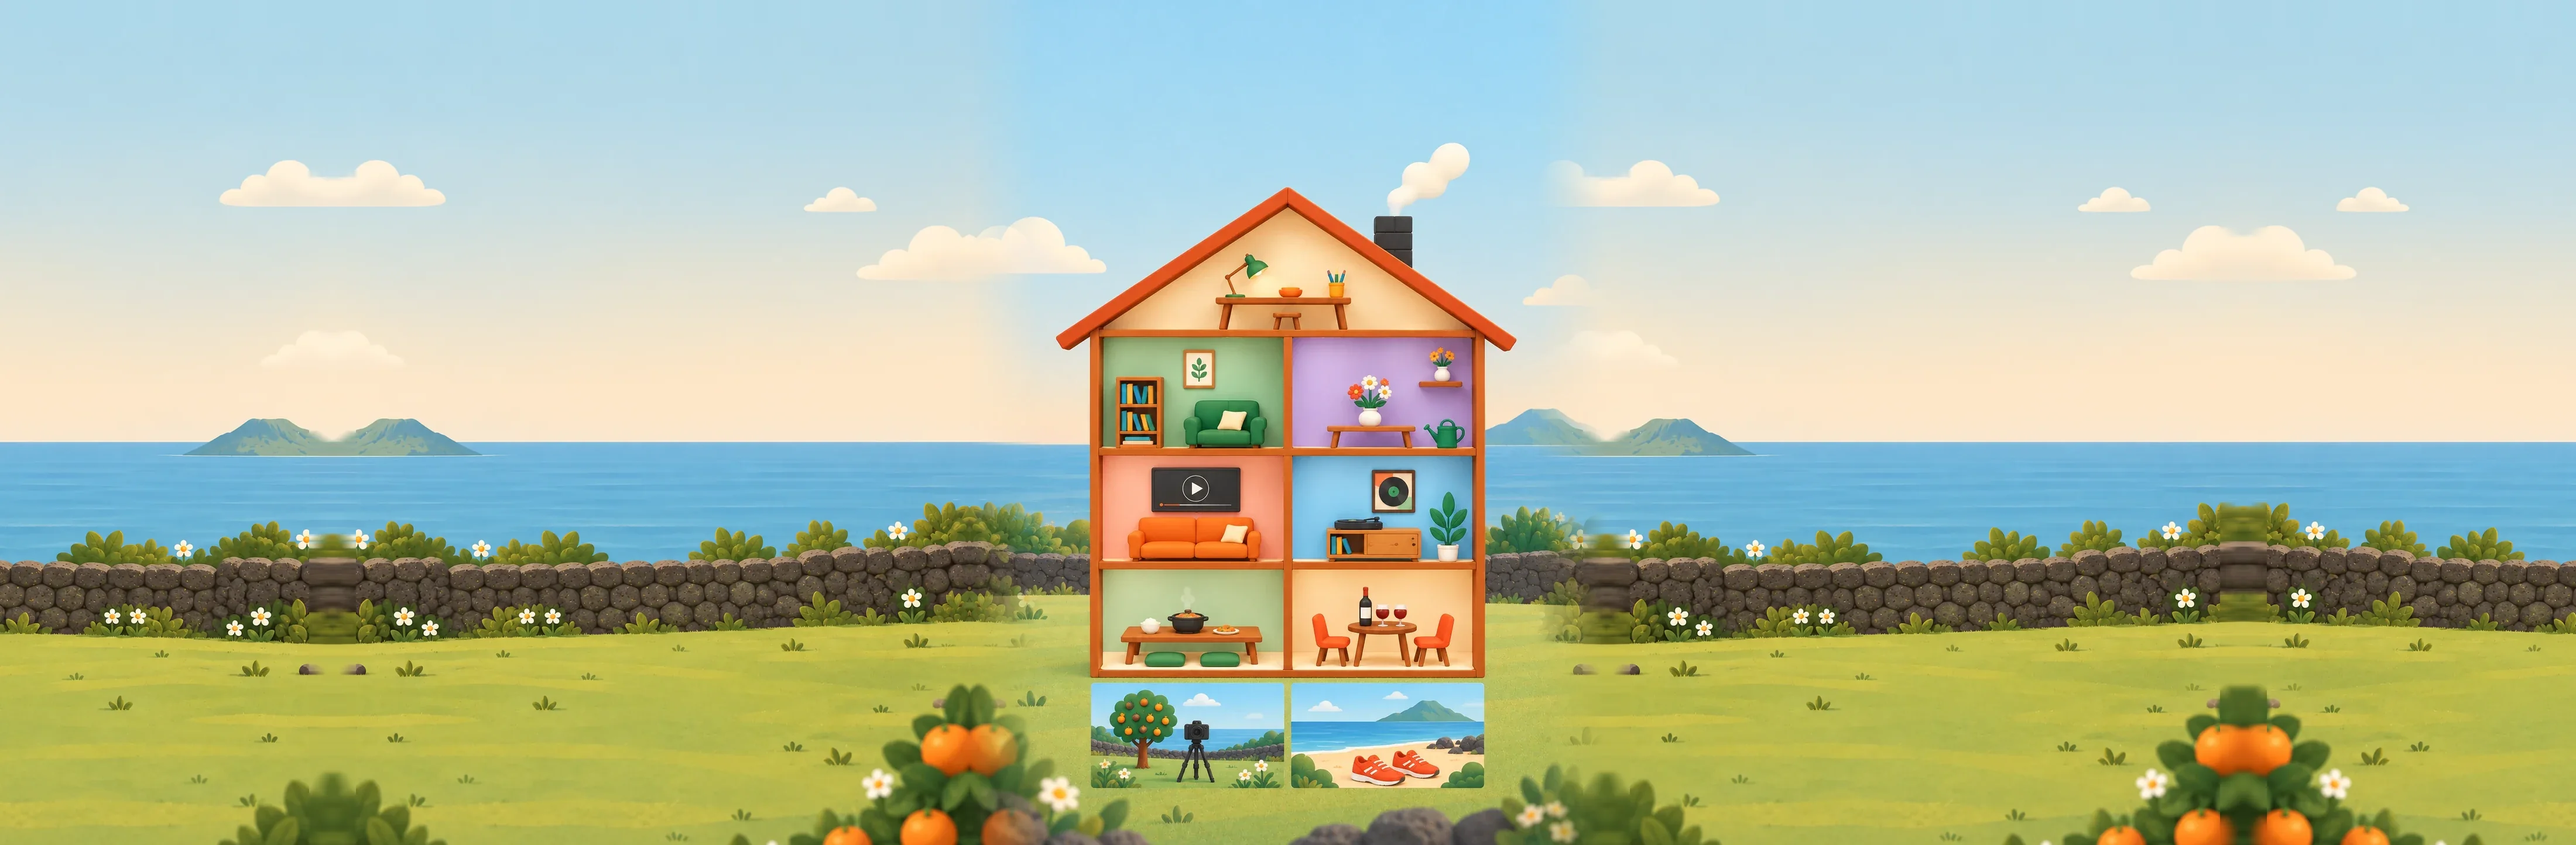
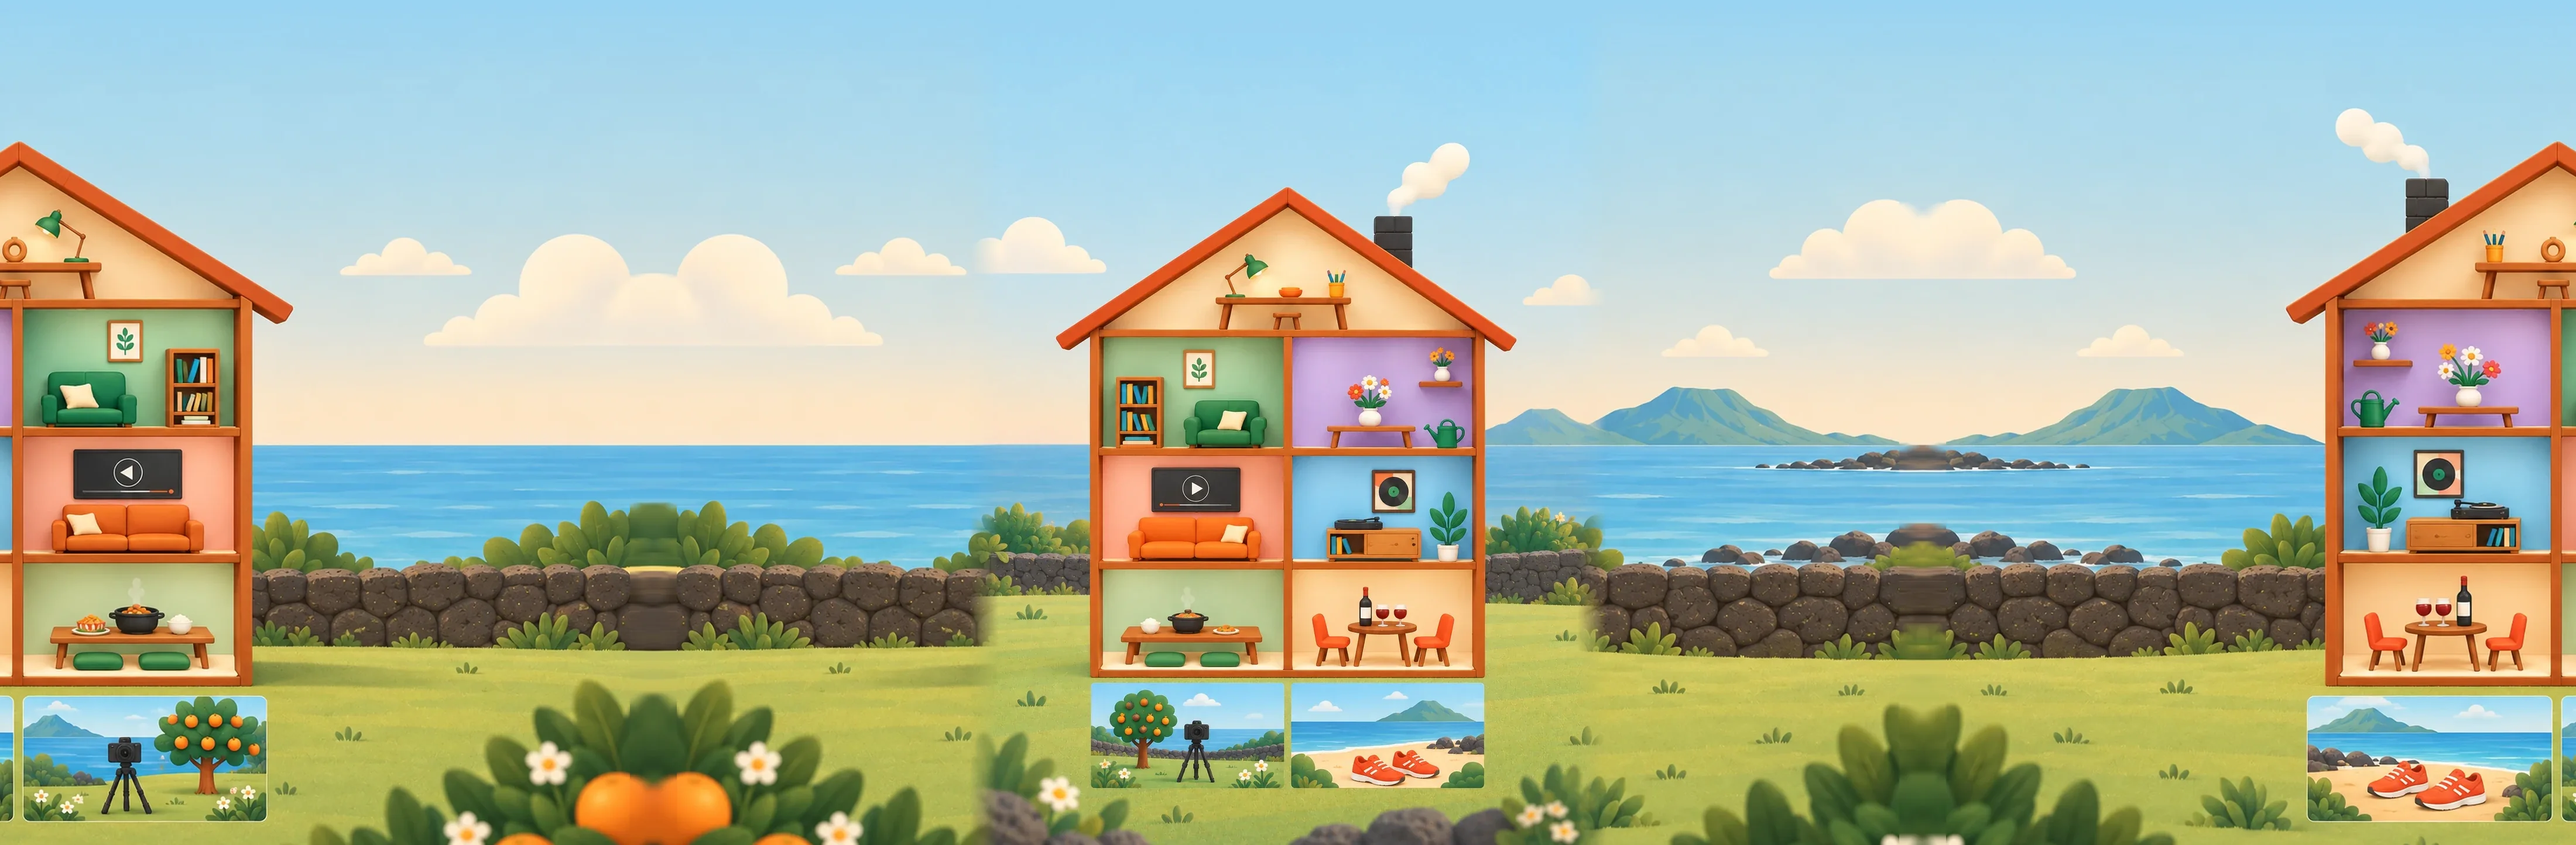
메인 집 칸 — 넓은 화면도 세로 집 그림 그대로, 양옆은 가로 그림 풍경 · 글을 집 가까이 · 하늘 그라데이션 부드럽게 · 잔디 띠 없이 판 이음새 · 돌아가는 사진 색감 섞어 배치

diff --git a/src/pages/HousePage.tsx b/src/pages/HousePage.tsx
@@ -4,8 +4,7 @@ import type { ProgramId } from '../data/types';
 import { href } from '../lib/router';
 import { ExpIcon } from '../components/ExpIcon';
 import houseUrl from '../assets/house-3d.webp';
-import houseWideUrl from '../assets/house-3d-wide.webp';
-import { useMediaQuery } from '../lib/motion';
+import houseBgUrl from '../assets/house-wide-bg.webp';
 
 /**
  * PAGE 02 — 집 내부 탐색 (EXPLORE)
@@ -22,37 +21,19 @@ const VIEW_KEY = 'jejulog:house-view';
  * 다락 반지공방 · 3F 책 · 꽃꽂이 · 2F 영화 · LP · 1F 집밥 · 와인 · 마당 스냅사진 · 러닝 — 휴대폰 · 넓은 화면 모두 같은 그림
  */
 type Spot = { id: ProgramId; room: [number, number, number, number]; tag: [number, number, number]; center?: boolean };
-const HOUSES: Record<'narrow' | 'wide', { url: string; w: number; h: number; spots: Spot[] }> = {
-  // 휴대폰 — 세로 그림 (1088 × 1445)
-  narrow: {
-    url: houseUrl, w: 1088, h: 1445,
-    spots: [
-      { id: 'craft', room: [227, 330, 860, 564], tag: [543, 392, 122], center: true },
-      { id: 'book', room: [227, 576, 536, 767], tag: [240, 589, 66] },
-      { id: 'flower', room: [551, 576, 860, 767], tag: [564, 589, 95] },
-      { id: 'cinema', room: [227, 778, 536, 961], tag: [240, 791, 84] },
-      { id: 'lp', room: [551, 778, 860, 961], tag: [564, 791, 70] },
-      { id: 'homemeal', room: [227, 973, 536, 1146], tag: [240, 986, 85] },
-      { id: 'wine', room: [551, 973, 860, 1146], tag: [564, 986, 83] },
-      { id: 'camping', room: [208, 1168, 537, 1348], tag: [221, 1181, 120] },
-      { id: 'running', room: [551, 1168, 878, 1348], tag: [564, 1181, 89] },
-    ],
-  },
-  // 넓은 화면 — 가로 그림 한 장 (1536 × 1024), 화면 폭에 꽉 차게
-  wide: {
-    url: houseWideUrl, w: 1536, h: 1024,
-    spots: [
-      { id: 'craft', room: [507, 170, 1028, 345], tag: [768, 218, 122], center: true },
-      { id: 'book', room: [507, 357, 762, 504], tag: [519, 369, 66] },
-      { id: 'flower', room: [775, 357, 1028, 504], tag: [787, 369, 95] },
-      { id: 'cinema', room: [507, 515, 762, 657], tag: [519, 527, 84] },
-      { id: 'lp', room: [775, 515, 1028, 657], tag: [787, 527, 70] },
-      { id: 'homemeal', room: [507, 666, 762, 806], tag: [519, 678, 85] },
-      { id: 'wine', room: [775, 666, 1028, 806], tag: [787, 678, 83] },
-      { id: 'camping', room: [468, 830, 762, 980], tag: [480, 842, 120] },
-      { id: 'running', room: [775, 830, 1070, 980], tag: [787, 842, 89] },
-    ],
-  },
+const HOUSE: { url: string; w: number; h: number; spots: Spot[] } = {
+  url: houseUrl, w: 1088, h: 1445,
+  spots: [
+    { id: 'craft', room: [227, 330, 860, 564], tag: [543, 392, 122], center: true },
+    { id: 'book', room: [227, 576, 536, 767], tag: [240, 589, 66] },
+    { id: 'flower', room: [551, 576, 860, 767], tag: [564, 589, 95] },
+    { id: 'cinema', room: [227, 778, 536, 961], tag: [240, 791, 84] },
+    { id: 'lp', room: [551, 778, 860, 961], tag: [564, 791, 70] },
+    { id: 'homemeal', room: [227, 973, 536, 1146], tag: [240, 986, 85] },
+    { id: 'wine', room: [551, 973, 860, 1146], tag: [564, 986, 83] },
+    { id: 'camping', room: [208, 1168, 537, 1348], tag: [221, 1181, 120] },
+    { id: 'running', room: [551, 1168, 878, 1348], tag: [564, 1181, 89] },
+  ],
 };
 const pct = (v: number, of: number) => `${(v / of) * 100}%`;
 
@@ -75,8 +56,7 @@ export function HousePage({ embedded = false }: { embedded?: boolean }) {
   const listed = houseOrder.map((id) => experiences.find((e) => e.id === id)!).filter(Boolean);
   // 상세페이지에 다녀와도 보던 방식이 유지되도록 이 탭에서만 기억합니다.
   const [view, setView] = useState<View>(readView);
-  const wide = useMediaQuery('(min-width: 900px)');
-  const house = HOUSES[wide ? 'wide' : 'narrow'];
+  const house = HOUSE;
   const { w: IMG_W, h: IMG_H } = house;
   const choose = (v: View) => {
     setView(v);
@@ -127,9 +107,9 @@ export function HousePage({ embedded = false }: { embedded?: boolean }) {
         </nav>
       ) : (
       <nav
-        className={`house3d${wide ? ' house3d--wide' : ''}`}
+        className="house3d"
         aria-label={ui.house.houseAria}
-        style={{ '--iw': IMG_W } as CSSProperties}
+        style={{ '--iw': IMG_W, '--house-bg': `url(${houseBgUrl})` } as CSSProperties}
       >
         <div className="house3d__frame">
           <img className="house3d__img" src={house.url} width={IMG_W} height={IMG_H} alt={ui.house.houseAria} loading="lazy" decoding="async" />

diff --git a/src/styles/house.css b/src/styles/house.css
@@ -65,7 +65,10 @@
 /* 문제 정의 화면 아래 빈 자리로 살짝 끌어올려 두 섹션 사이 간격을 줄임 */
 .explore.explore--home { position: relative; z-index: 5; padding-top: clamp(40px, 7vh, 80px); } /* SCROLL 표시 아래 공백 */
 /* 메인 집 칸 — 제목 뒤까지 하늘: 위는 페이지 색에서 시작해 그림 맨 위 하늘색으로 이어짐 */
-.explore.explore--home { padding-top: calc(clamp(90px, 14vh, 140px) + 36px); background: linear-gradient(to bottom, var(--bg) 0, #99D4F3 clamp(90px, 14vh, 140px)) top / 100% 100% no-repeat, #99D4F3; } /* 하늘이 다 짙어진 뒤에 글이 시작 */
+/* 페이지 색 → 하늘색을 길고 부드럽게 (처음과 끝은 천천히 바뀌는 S자) */
+.explore.explore--home { --sky-fade: clamp(160px, 24vh, 240px); padding-top: calc(var(--sky-fade) + 12px); background: linear-gradient(to bottom, var(--bg) 0%, color-mix(in oklab, var(--bg), #99D4F3 2.8%) 10%, color-mix(in oklab, var(--bg), #99D4F3 10.4%) 20%, color-mix(in oklab, var(--bg), #99D4F3 21.6%) 30%, color-mix(in oklab, var(--bg), #99D4F3 35.2%) 40%, color-mix(in oklab, var(--bg), #99D4F3 50.0%) 50%, color-mix(in oklab, var(--bg), #99D4F3 64.8%) 60%, color-mix(in oklab, var(--bg), #99D4F3 78.4%) 70%, color-mix(in oklab, var(--bg), #99D4F3 89.6%) 80%, color-mix(in oklab, var(--bg), #99D4F3 97.2%) 90%, #99D4F3 100%) top / 100% var(--sky-fade) no-repeat, #99D4F3; } /* 하늘이 다 짙어진 뒤에 글이 시작 */
+/* 글을 집 가까이 — 집 그림 맨 위 빈 하늘(굴뚝 연기 위) 쪽으로 내려 겹침 (버튼은 그림 위에서 눌림) */
+.explore--home .explore__head:has(+ .house3d) { position: relative; z-index: 1; margin-bottom: calc(min(660px, 100vw) * -0.15); }
 .explore--home .explore__hint, .explore--home .explore__toggle { background: rgba(255, 255, 255, .7); }
 .explore__hint, .explore__toggle { background: rgba(255, 255, 255, .6); }
 
@@ -171,15 +174,10 @@
 .house3d {
   --w: min(660px, 100vw); --u: calc(var(--w) / var(--iw, 1088)); --pt: 0px;
   position: relative; overflow: hidden; padding: 0;
-  /* 넓은 화면 양옆 — 가운데 집 그림과 높이 · 수평선을 맞춰 이어 그린 제주 풍경 한 장 (집 그림과 같은 높이로 가운데 정렬) */
-  background: url('../assets/house-wide-bg.webp') center top / auto 100% no-repeat, #C4C462;
+  /* 넓은 화면 양옆 — 받은 가로 그림의 풍경(하늘 · 바다 · 돌담 · 잔디)을 세로 집 그림과 높이 · 수평선을 맞춰 이어 붙인 한 장 (가운데는 집 그림 그대로) */
+  background: var(--house-bg) center top / auto 100% no-repeat, #C4C462; /* 그림 주소는 HousePage 에서 넘김 */
 }
-/* 넓은 화면 — 한 층 세 칸 그림 (1572 × 1196) */
-/* 다락 지붕 모양 — 세 칸 그림은 꼭대기가 49.9% */
 .house3d__frame { position: relative; width: var(--w); margin-inline: auto; }
-/* 넓은 화면 — 가로 그림 한 장을 화면 폭에 꽉 차게 (양옆 풍경까지 그림 안에 있음) */
-.house3d--wide { --w: 100vw; }
-.house3d--wide .house3d__room--craft { clip-path: polygon(50% 0, 100% 96%, 100% 100%, 0 100%, 0 96%); }
 .house3d__img { display: block; width: 100%; height: auto; }
 /* 방 — 투명 링크 (네모 테두리는 키보드로 고를 때만) */
 .house3d__room { position: absolute; display: block; outline: none; -webkit-tap-highlight-color: transparent; }

diff --git a/src/pages/HomePage.tsx b/src/pages/HomePage.tsx
@@ -302,24 +302,25 @@ function Problem() {
  * h 는 띠 높이 대비 %, y 는 위아래 어긋남(%), r 은 기울기(도).
  * photo 는 같은 사진이 쓰인 상세페이지 사진 파일 이름 — 대체 텍스트를 거기서 가져옵니다. (run · lounge · camp · mallow · dome · candle · lpwall · living · ring · potluck · cat · buckwheat 은 상세에 없어 ui 문구)
  */
+// 색감이 비슷한 사진끼리 붙지 않게 — 사진마다 평균 색(밝기 · 따뜻함 · 위아래 반쪽)을 재서 이웃끼리 가장 다르게 놓은 순서
 const STRIP: { src: string; h: number; y: number; r: number; photo: string }[] = [
   { src: stripSeaRun, h: 98, y: -3, r: -2, photo: 'searun' },
-  { src: stripMallow, h: 93, y: 3, r: 1.5, photo: 'mallow' },
-  { src: stripCat, h: 94, y: -2, r: -1.5, photo: 'cat' },
-  { src: stripCrater, h: 99, y: 4, r: 2, photo: 'crater' },
-  { src: stripLpWall, h: 92, y: -3, r: -1.5, photo: 'lpwall' },
-  { src: stripPuppy, h: 96, y: 2, r: 1.5, photo: 'puppy' },
-  { src: stripPotluck, h: 97, y: -4, r: -2, photo: 'potluck' },
-  { src: stripBuckwheat, h: 99, y: 3, r: 2, photo: 'buckwheat' },
-  { src: stripWinePour, h: 95, y: 3, r: 1.5, photo: 'winepour' },
+  { src: stripGuitar, h: 96, y: 2, r: 1.5, photo: 'guitar' },
+  { src: stripPuppy, h: 96, y: -2, r: -1.5, photo: 'puppy' },
+  { src: stripPotluck, h: 97, y: 4, r: 2, photo: 'potluck' },
   { src: stripCliff, h: 99, y: -3, r: -1.5, photo: 'cliff' },
-  { src: stripRingWork, h: 97, y: 2, r: 2, photo: 'ringwork' },
-  { src: stripForest, h: 96, y: -3, r: -1.5, photo: 'forest' },
-  { src: stripSunrise, h: 90, y: -2, r: -2, photo: 'kokoko-sunrise' },
-  { src: stripTea, h: 91, y: 4, r: 1, photo: 'tea' },
-  { src: stripSeaSit, h: 98, y: -3, r: -1.5, photo: 'seasit' },
-  { src: stripGuitar, h: 96, y: -2, r: -1.5, photo: 'guitar' },
-  { src: stripDinner, h: 100, y: 2, r: 1.5, photo: 'susu-dinner-table' },
+  { src: stripCat, h: 94, y: 2, r: 1.5, photo: 'cat' },
+  { src: stripMallow, h: 93, y: -3, r: -1.5, photo: 'mallow' },
+  { src: stripSunrise, h: 90, y: 2, r: 2, photo: 'kokoko-sunrise' },
+  { src: stripDinner, h: 100, y: -2, r: -1.5, photo: 'susu-dinner-table' },
+  { src: stripCrater, h: 99, y: 4, r: 2, photo: 'crater' },
+  { src: stripTea, h: 91, y: -4, r: -1, photo: 'tea' },
+  { src: stripForest, h: 96, y: 3, r: 1.5, photo: 'forest' },
+  { src: stripWinePour, h: 95, y: -3, r: -1.5, photo: 'winepour' },
+  { src: stripSeaSit, h: 98, y: 3, r: 1.5, photo: 'seasit' },
+  { src: stripRingWork, h: 97, y: -2, r: -2, photo: 'ringwork' },
+  { src: stripBuckwheat, h: 99, y: 3, r: 2, photo: 'buckwheat' },
+  { src: stripLpWall, h: 92, y: -3, r: -1.5, photo: 'lpwall' },
 ];
 
 function PhotoStrip() {

diff --git a/src/components/GrassLedge.tsx b/src/components/GrassLedge.tsx
@@ -38,7 +38,7 @@ const RIPPLES = Array.from({ length: 14 }, () => [rand() * 1440, 100 + rand() * 
 export function GrassLedge() {
   return (
     <div className="ledge" aria-hidden="true">
-      <svg viewBox="0 0 1440 130" preserveAspectRatio="xMidYMid slice">
+      <svg viewBox="0 34 1440 96" preserveAspectRatio="xMidYMin slice">
         <defs>
           <linearGradient id="ledge-soil" gradientUnits="userSpaceOnUse" x1="0" y1="44" x2="0" y2="82">
             <stop offset="0" stopColor="#A47A4E" />
@@ -49,9 +49,12 @@ export function GrassLedge() {
             <stop offset="0" stopColor="#B49372" stopOpacity=".55" />
             <stop offset="1" stopColor="#F8ECDA" stopOpacity="0" />
           </linearGradient>
+          <linearGradient id="ledge-lip" gradientUnits="userSpaceOnUse" x1="0" y1="34" x2="0" y2="42">
+            <stop offset="0" stopColor="#7F8A3C" stopOpacity="0" />
+            <stop offset="1" stopColor="#7F8A3C" stopOpacity=".55" />
+          </linearGradient>
         </defs>
-        {/* 잔디 윗면 · 모래 */}
-        <rect width="1440" height="46" style={{ fill: 'var(--ledge-grass)' }} />
+        {/* 모래 (턱 위는 비워 둬 집 그림 잔디가 보임) */}
         <rect y="46" width="1440" height="84" fill="#F8ECDA" />
         {/* 모래 바람 결 — 아주 옅은 곡선 */}
         {RIPPLES.map(([x, y, w], i) => (
@@ -82,9 +85,10 @@ export function GrassLedge() {
         ))}
         {/* 아래 테 — 둥글게 말려 들어가는 그늘 */}
         <path d={`M${SOIL_BOTTOM.join(' L')}`} fill="none" stroke="#6B4C2C" strokeWidth="2.4" opacity=".55" transform="translate(0 -1.2)" />
-        {/* 잔디 턱 — 살짝 튀어나온 가장자리 (밑면은 짙은 초록, 윗면은 밝은 테) */}
-        <rect y="40" width="1440" height="6" rx="3" fill="#9EA544" />
-        <rect y="39" width="1440" height="3.5" fill="#CCCB70" />
+        {/* 잔디 턱 — 그림 잔디밭 끝이 살짝 말려 내려간 가장자리 (위는 그림 쪽으로 옅어지고, 아래는 짙은 초록) */}
+        <rect y="34" width="1440" height="8" fill="url(#ledge-lip)" />
+        <rect y="41" width="1440" height="5" rx="2.5" fill="#7F8A3C" />
+        <rect y="41" width="1440" height="1.6" fill="#A6AE55" opacity=".8" />
       </svg>
     </div>
   );

diff --git a/src/styles/home.css b/src/styles/home.css
@@ -280,10 +280,8 @@
 .find.find--map { background: #B1E1E6; }
 .find--map .tmi__lens { background-color: #B1E1E6; }
 /* 잔디 판 두께(디오라마) — 집 칸 잔디밭과 '게하게' 칸 모래 사이 (위 칸과 이음새가 안 보이게 살짝 겹침) */
-.ledge { position: relative; display: block; height: clamp(72px, 9vw, 130px); margin-top: -2px; overflow: hidden; background: linear-gradient(var(--ledge-grass) 30%, #F8ECDA 30%); }
-/* 잔디 판 윗면 — 바로 위 집 그림 맨 아래 잔디색과 같게 (휴대폰 세로 그림 · 넓은 화면 가로 그림) */
-:root { --ledge-grass: #93A456; }
-@media (min-width: 900px) { :root { --ledge-grass: #B2B655; } }
+/* 따로 칠한 잔디 띠 없이 — 집 그림 잔디밭이 곧바로 판 가장자리(턱)로 이어지게, 판 윗부분을 그림 맨 아래에 살짝 겹침 */
+.ledge { position: relative; z-index: 6; display: block; height: clamp(53px, 6.65vw, 96px); margin-top: calc(-1 * max(.35vw, 2.8px) - 6px); overflow: hidden; }
 .ledge svg { display: block; width: 100%; height: 100%; }
 /* 모래사장 → 파도 → 바다 */
 .beach { position: relative; display: block; height: clamp(170px, 22vw, 260px); margin-top: -3px; overflow: hidden; background: linear-gradient(#F8ECDA 50%, #B1E1E6 50%); } /* 위 칸 · 아래 바다와 이음새가 안 보이게 */
